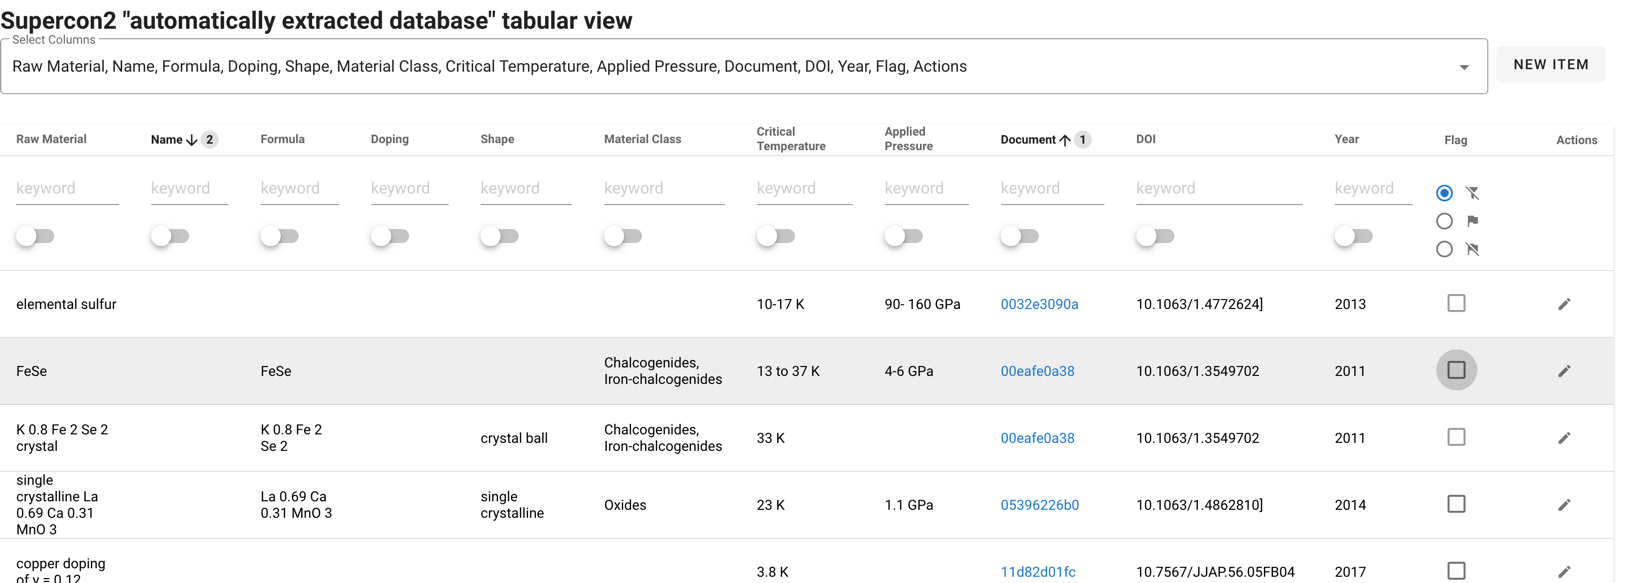
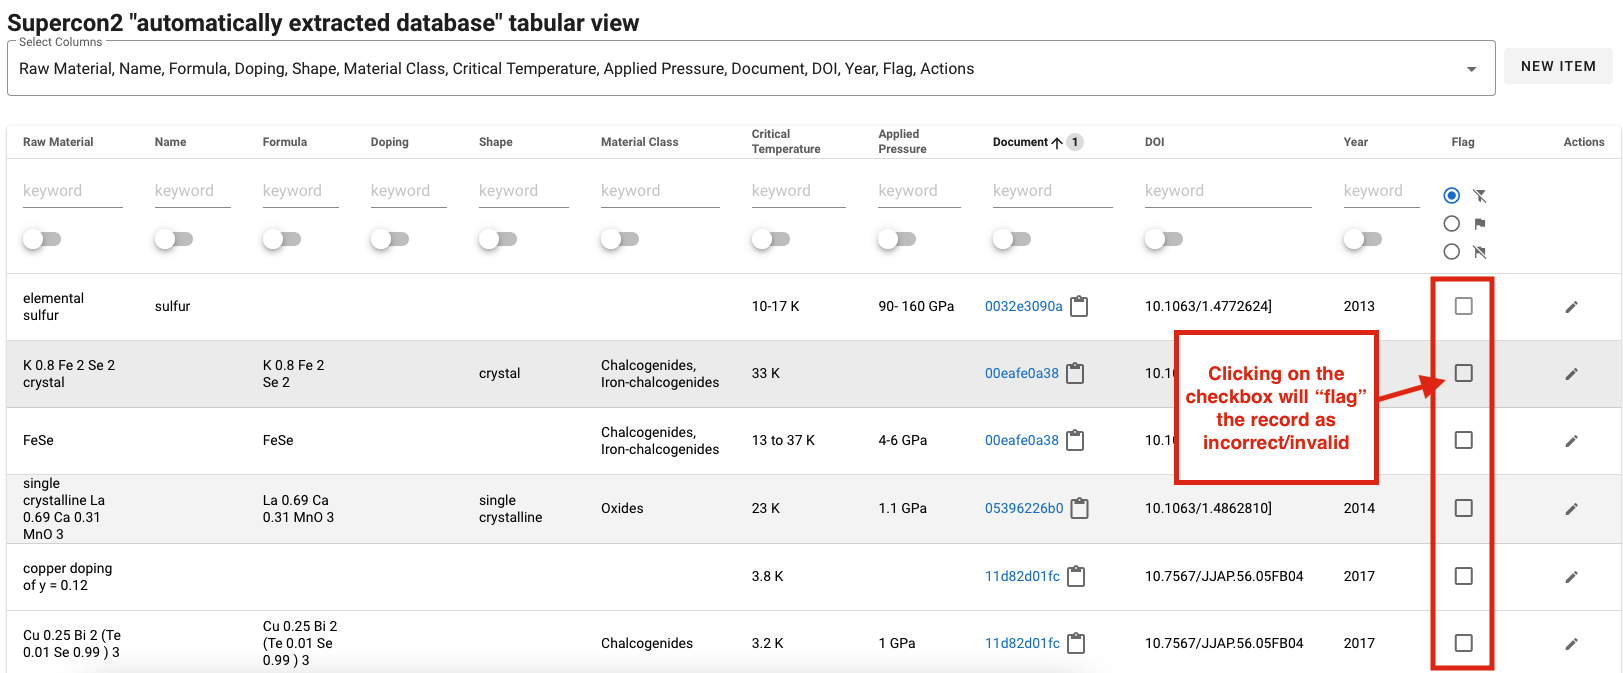
update documentation

diff --git a/docs/correction_workflow.md b/docs/correction_workflow.md
@@ -1,0 +1,123 @@
+# SuperCon 2 current workflow
+
+This is a living document describing the current SuperCon 2 worklow and documenting the proposed changes aiming to improve the efficiency and quality of the automatically extracted database. 
+
+## Introduction
+
+The SuperCon 2 database is currently created using a 2-steps process:
+
+![Overview supercon2 process](images/current-workflow.png)
+
+which consists in:
+ - Extraction task: transformation, structuring and extraction of PDF documents into text representation (2) (JSON format, stored in a 'document' collection)
+ - Aggregation task: summary of the extracted data (3) into a tabular synthetic representation (4) (JSON format, stored in a 'tabular' collection)
+ - additionally, the PDFs are also stored as binary (1)
+
+Obviously, each step is optimised and structured to best serve its purpose: 
+ - (2) + (1) are used to visualise the PDF and the annotations in the same page 
+ - (3) is used to show the database 
+
+The same schema can be seen as follows, where the focus is on the data flow:
+
+![](images/data-flow.png)
+
+
+A “record”, is a row in the database table (material, properties)
+
+## Data flow
+
+In this section we illustrate the data flow, from the data point of view.
+
+Let's take an example a sentence in a document (within the blue box).
+
+![](images/data-flow-1.png)
+
+The same sentence after the Extraction task, is stored as follows in the data format (2), as illustrated before. From the figure we can see that for each entity we have several information, e.g. links, attributes, coordinates within the PDF and additional information like the offsets in the sentence.
+
+![](images/data-flow-2.png)
+
+The Aggregation Task "compresses" to synthetic data, where the goal is to show the record in a tabular manner.
+The various identifiers (*Id) are unique identifiers from the data format (2), e.g. material ID si the unique ID of the entities of type material.
+The synthesized data become:
+
+![](images/data-flow-3.png)
+
+which is partially visualised in the next figure. 
+Please notice that the attributes in bold are not visualised, nor exported to Excel.
+
+![](images/data-flow-4.png)
+
+A generic Excel output (specifically taken from the Sakai-san corrected data) looks as follows. 
+**Please notice that this represents a different record, it's just an example to show that the export to Excel leads to loss/addition of certain data.**
+ 
+![](images/data-flow-5.png)
+
+In summary: 
+
+![](images/data-flow-summary.png)
+
+Remarks/comments: 
+- Excel does not export all the available data (current interface limitation), for example the specific record identifier is not exported. 
+- Given a record in the Excel file that Sakai-san corrected, we can identify the document but there is no guaranteed we can find the actual record.
+- The process of correction can be more efficient with a single interface
+- the mapping between Excel and the database might require manual intervention to find the correct record (low efficiency),
+- the added data do not fit in the database at the moment, 
+
+### Manual process
+
+At a glance: 
+- Manual process possible, although very inefficient
+- The process could require 2-3 weeks to be carried out
+- Is not guaranteed that the process could be repeatable
+- The process will be dependent on someone 
+- Learning from the past: during the SuperMat construction we had two manual steps that only Luca-san could do (XML -> TSV -> Inception -> TSV -> XML). It was error prone and time consuming.-  
+
+
+## Proposed workflow
+
+**Work in progress**
+
+The proposed workflow is designed under the following assuptions:
+ - corrections are expensive (time, knowledge) and, 
+ - hiding possible invalid records ("flagging") from the default view should be done as quick as possible
+ - "flagging" could be done without reading the paper most of the time  
+
+### Record flagging (also "flagging")
+The "Record flagging" is the action of adding a flag to a record, as "incorrect", "dubious", "invalid". 
+This action does not supply a correction, which can be done as a later step, however the record is not being accessed by default, until is it corrected.
+
+The workflow is very simple: 
+
+![](images/Record-flag.png)
+
+Required changes: 
+ - add a button in each flag to flag the record (minimal requirement)
+ - add selection of multiple records so that can be flagged with one click (efficient)
+ - enable such action without using the mouse, only with keyboard (efficient)
+ - update view to see (a) only valid records, (b) only flagged records, and (c) all records
+
+
+### Record correction
+The record correction allow the curator to pick up flagged records and correct them. 
+
+
+![](images/Record-correction.png)
+
+Required changes:
+ - rebuild the interface to have the pdf document opened in the same page as the record 
+ - enable a smart view that allow the curator to edit the various fields of the data format (3)
+ - enable the process of creating new record for each edit in the same record
+ 
+### Additional changes
+
+- Interface responsiveness 
+  - modernise the technology 
+  - change design e.g. at the moment the data is loaded in memory, which become slower as the data increase
+- Enable recording of the type of errors, comments, references information
+
+### How can we justify these improvements
+There are several reasons to justify this investment: 
+ - Ability to generate training data from error cases
+ - Ability to monitor the data quality. 
+     E.g. answering the question "what are the most common errors from the machine?"
+ - ... 

diff --git a/README.md b/README.md
@@ -36,22 +36,86 @@ This repository contains:
 
 The `supercon2` service provides the following features:
 
-- Visualisation of records of extracted materials-properties, with filtering, sorting
-- Visualisation of "augmented" PDFs with highlight annotations of materials and properties
-- Flagging of invalid records: records can be marked as valid/invalid manually
-- Add/Edit/Remove of records.
+- Visualisation of materials-properties records as a table, with search/filtering, sorting, selection of non-empty values
+- Visualisation of "augmented" PDFs with highlight of the annotations identifying materials and properties
+- Reporting of incorrect/invalid records (**record flagging**): records can be marked as incorrect manually
+- Correction of Incorrect records (**record correction**): users can correct incorrect records or add missing records.
 - Automatic collection of training data: when a record has been corrected the information of the sentence, spans (the
   annotations) and tokens (the tokens, including layout information, fonts, and other perpenducular features) are
   collected
 
+**Design principles** 
+ - each document is identified by an 8-character hash code. To save space we do not allow to store multiple version of the same paper (paper with the same hash).  
+ - each record is linked to the document by the document hash
+ - correcting a record will generate a new record and link it to the original, so that will be possible, in future to undo modifications 
+
+The technical details of the curation interface can be found [here](docs/correction_workflow.md).
+
+**Terminology** 
+ - **Incorrect** = wrong (e.g. 3 K extracted instead of 30K is incorrect) [Ref](https://forum.wordreference.com/threads/invalid-incorrect-wrong.2776284/post-14029941)
+ - **Invalid** = wrong through being inappropriate to the situation (e.g. Tm or T curie extracted as superconducting critical temperature is invalid) [Ref](https://forum.wordreference.com/threads/invalid-incorrect-wrong.2776284/post-14029941)
+ - **Flagging** = In programming, a "yes/no" indicator used to represent the current status of something. [Ref](https://www.pcmag.com/encyclopedia/term/flagging)
+
+ 
+**Future plans**
+ - Invalid record remove [#43](https://github.com/lfoppiano/supercon2/issues/43)
+ - Undo/redo functionality: possibility to revert incorrect edits and modification of the database 
+ - Versioning of documents 
+
+
 [//]: # (![training-data-view.png]&#40;docs/images/training-data-view.png&#41;)
 [//]: # (![pdf-view.png]&#40;docs/images/pdf-view.png&#41;)
 
+### Interface features
 
-### Record reporting (or flagging)
+Here a list of the main features, please notice that they **can all be used simultaneously**. 
 
-The "Record flagging/reporting" is a functionality that allow users and curator to quickly report invalid records. By
-clicking on the flagging checkbox the record is marked as invalid and can be excluded from the database without being
+#### Filtering 
+
+By entering keywords in each column is possible to filter records by multiple filters
+
+![](docs/images/filter-by-keywords.png)
+
+#### Filter by document
+There is a shortcut for identify only records belonging to a specific document (see column Document) 
+
+![](docs/images/filter-by-document-1.png)
+
+In the following figure only record of document `11d82...` are shown: 
+
+![](docs/images/filter-by-document-2.png)
+
+
+#### Change which columns to visualise
+
+The default view does not show all the attribute of the database 
+
+![](docs/images/modify-visualised-columns-1.png)
+
+it's possible to extend the table by using the "select columns" feature:
+
+![](docs/images/modify-visualised-columns-2.png)
+
+#### Hide empty/blank values 
+It's possible to show only **records for which certain column(s) contains non-blank characters (spaces, break lines, tabs, etc..): 
+
+![](docs/images/visualise-non-empty-fields-1.png)
+in this example the user sees only records of materials with "Applied pressure": 
+![](docs/images/visualise-non-empty-fields-2.png)
+
+such filters can be "combined" on multiple columns (e.g. formula + applied pressure): 
+![](docs/images/visualise-non-empty-fields-3.png)
+
+#### multi column sorting
+
+The interface supports multicolumn sorting, the number indicate the priority, the arrow the order (ascendent or descendent): 
+![](docs/images/multicolumn-sorting.png)
+
+### Workflows 
+#### Record reporting (or flagging)
+
+The "Record reporting" allows users and curator to quickly report incorrect or invalid records. 
+By clicking on the flagging checkbox the record is marked as invalid and can be excluded from the database without being
 removed.
 
 ![flagging_interface.png](docs/images/flagging_interface.png)
@@ -62,7 +126,9 @@ stage.
 
 ### Record correction
 
-The interface allow the correction of records 
+The interface allow the correction of records independently if they are valid or incorrect: 
+
+![edit-record.png](docs/images/edit-interface.png)
 
 ![edit-record.png](docs/images/edit-record.png)
 
